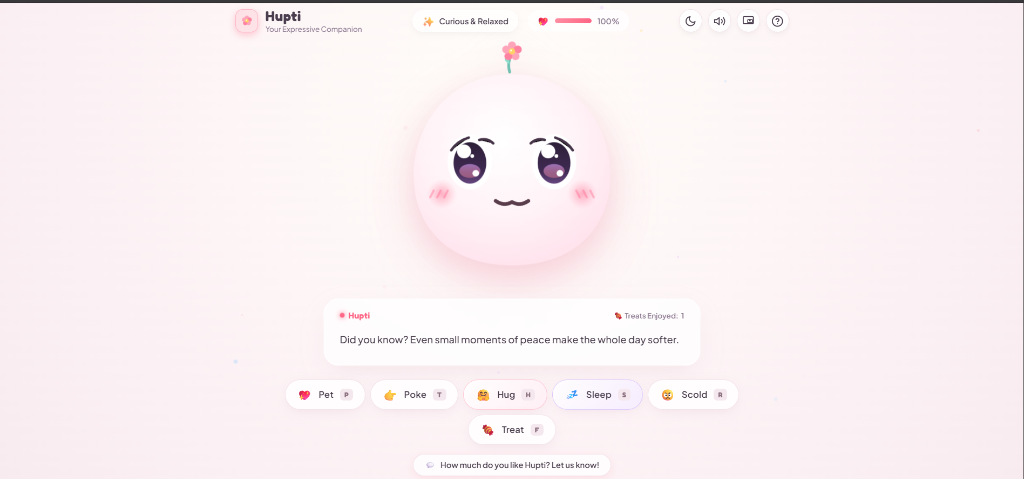
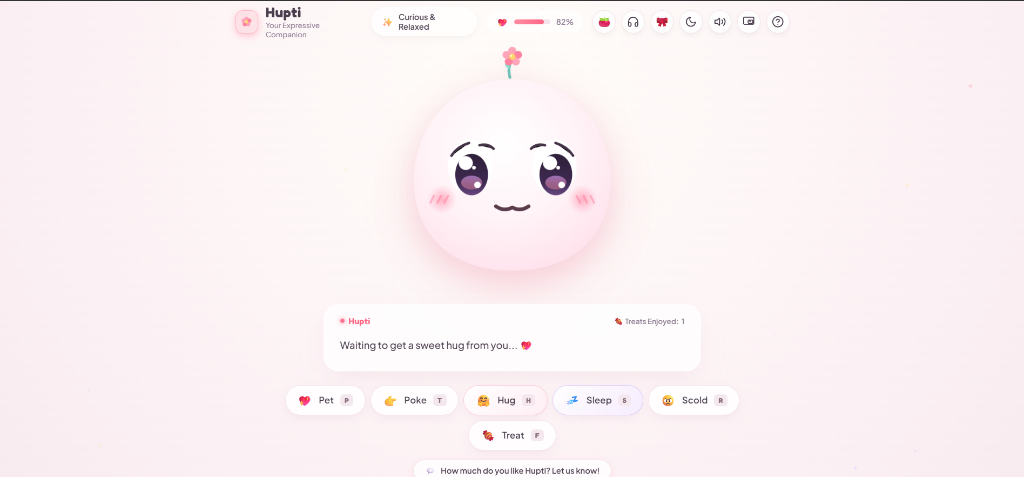
docs: update preview screenshot with study features and refresh README documentation

diff --git a/README.md b/README.md
@@ -1,6 +1,13 @@
 # 🌸 Hupti — The Expressive Virtual Pet Companion
 
-> A minimalist, responsive, and heartwarming virtual companion that lives directly in your browser or floats over your desktop work. Crafted with fluid vector animations, procedural acoustic pet vocalizations, and zero external framework bloat.
+[![Live Demo](https://img.shields.io/badge/Live%20Demo-hupti.vercel.app-ff6584?style=for-the-badge&logo=vercel&logoColor=white)](https://hupti.vercel.app/)
+[![GitHub Repo](https://img.shields.io/badge/GitHub-RI--Rimon%2FHupti-181717?style=for-the-badge&logo=github&logoColor=white)](https://github.com/RI-Rimon/Hupti)
+[![Vanilla JS](https://img.shields.io/badge/JavaScript-Vanilla%20ES6+-F7DF1E?style=for-the-badge&logo=javascript&logoColor=black)](https://developer.mozilla.org/en-US/docs/Web/JavaScript)
+[![Web Audio API](https://img.shields.io/badge/Audio-Procedural%20Web%20Audio-7952B3?style=for-the-badge&logo=web-audio-api&logoColor=white)](https://developer.mozilla.org/en-US/docs/Web/API/Web_Audio_API)
+[![Document PiP](https://img.shields.io/badge/Window-Document%20PiP-4285F4?style=for-the-badge&logo=googlechrome&logoColor=white)](https://developer.chrome.com/docs/web-platform/document-picture-in-picture/)
+[![Zero Dependencies](https://img.shields.io/badge/Dependencies-0%20External%20Libs-success?style=for-the-badge)](https://github.com/RI-Rimon/Hupti)
+
+> A minimalist, responsive, and heartwarming virtual companion that lives directly in your browser or floats over your desktop work. Crafted with fluid vector animations, procedural acoustic pet vocalizations, study companion tools, and zero external framework bloat.
 
 <p align="center">
   <img src="assets/hupti-preview.png" alt="Hupti Interface Preview" width="100%" style="border-radius: 12px; box-shadow: 0 10px 30px rgba(0,0,0,0.08);" />
@@ -15,6 +22,7 @@
 - [How Hupti Works (Architecture)](#-how-hupti-works-architecture)
 - [Key Features](#-key-features)
 - [Interactive Controls & Shortcuts](#-interactive-controls--shortcuts)
+- [Technical Stack & Design Decisions](#-technical-stack--design-decisions)
 - [Quick Start & Local Setup](#-quick-start--local-setup)
 - [Future Roadmap & Ideas](#-future-roadmap--ideas)
 - [Credits & Acknowledgments](#-credits--acknowledgments)
@@ -31,15 +39,14 @@ The concept, character identity, visual direction, emotional lifecycle, and over
 
 Hupti represents a personal experiment in combining frontend development, animation, browser audio, and thoughtful interaction design into a small but meaningful experience.
 
-
 ---
 
 ## 🌸 Character Concept & Identity
 
 | Attribute | Specification |
 | :--- | :--- |
-| **Name** | **Hupti** (pronounced *Hup-tea*) |
-| **Persona** | Affectionate, slightly playful, empathetic, and sweet. |
+| **Name** | **Hupti** (pronounced *Hup-tee*) |
+| **Persona** | Affectionate, slightly playful, empathetic, and sweet companion. |
 | **Visual Motif** | A 5-petal pink blossom with a golden pollen core—symbolizing fresh energy, soft resilience, and blooming warmth. |
 | **Aesthetic** | Soft pastel minimalism (gentle strawberry blush, cream whites, lavender night shadows). |
 | **Communication** | **100% Non-Verbal Vocalizations + Written Thoughts.** Dialogue appears in a clean typewriter subtitle card; audio is synthesized procedurally via oscillators. |
@@ -54,7 +61,7 @@ Hupti is engineered from the ground up without heavy external dependencies or ru
  ┌─────────────────────────────────────────────────────────────┐
  │                       USER INPUTS                           │
  │   Pointer Gestures (Forehead Stroke, Cheek Poke, Tap)       │
- │   Keyboard Shortcuts (P, T, H, S, W, R, F, M, O)            │
+ │   Keyboard Shortcuts (P, T, H, S, W, R, F, M, O, B, C)      │
  │   Action Buttons & Tab Visibility (Document PiP Auto-Dock)  │
  └──────────────────────────────┬──────────────────────────────┘
                                 │
@@ -70,6 +77,8 @@ Hupti is engineered from the ground up without heavy external dependencies or ru
  │                       HuptiState.js                         │
  │   Central State Machine & Observer Hub                      │
  │   - Mood States: IDLE, HAPPY, HUGGED, POUTED, SAD, SLEEP    │
+ │   - Pomodoro Study Engine (25m Focus / 5m Break Cycles)     │
+ │   - Wardrobe Customization & Tint State Management          │
  │   - Autonomous Idle Chatter Timer (12–20s interval)         │
  │   - Affection Level (0–100%) & Treat Counter                │
  │   - LocalStorage State Persistence Engine                   │
@@ -79,10 +88,10 @@ Hupti is engineered from the ground up without heavy external dependencies or ru
  ┌───────────────┐       ┌──────────────┐       ┌───────────────┐
  │HuptiRenderer  │       │  SoundFX.js  │       │ PiPManager.js │
  │- SVG morphing │       │- Web Audio   │       │- Document PiP │
- │- Eye tracking │       │  Oscillators │       │- Video Stream │
- │- Squish/bounce│       │- Filter Envs │       │  Fallback     │
- │- Canvas hearts│       │- Zero audio  │       │- Bi-direction │
- │  & treats     │       │  file assets │       │  State Sync   │
+ │- Accessories  │       │  Oscillators │       │- Video Stream │
+ │- Study glasses│       │- Ambient Gen │       │  Fallback     │
+ │- Eye tracking │       │  (Rain, LoFi,│       │- Bi-direction │
+ │- Particle FX  │       │   Chimes)    │       │  State Sync   │
  └───────────────┘       └──────────────┘       └───────────────┘
 ```
 
@@ -90,52 +99,81 @@ Hupti is engineered from the ground up without heavy external dependencies or ru
 
 1. **[`js/huptistate.js`](file:///c:/Users/redwa/OneDrive/Desktop/Test%20for%20antigravity/Vertual%20Pet/js/huptistate.js) — The Core State Machine:**
    - Governs Hupti's emotional model, affection percentages, and treat counts.
-   - Implements an autonomous idle timer: if no interaction occurs for 12–20 seconds while awake, Hupti autonomously shares a sweet or motivational thought.
-   - Automatically serializes and reloads state to `window.localStorage` so affection and treat memories persist across browser sessions.
+   - Manages the **Pomodoro Study Companion** cycle (25-minute focus sprints and 5-minute restorative breaks).
+   - Tracks wardrobe accessories (Sakura, Sunflower, Snowdrop, Sprout, Scholar Cap, Ribbon), study eyewear, and body color tints.
+   - Automatically serializes and reloads state to `window.localStorage` so your relationship with Hupti persists across browser sessions.
 
 2. **[`js/huptirenderer.js`](file:///c:/Users/redwa/OneDrive/Desktop/Test%20for%20antigravity/Vertual%20Pet/js/huptirenderer.js) — Dynamic Visual Engine:**
-   - Controls vector SVG elements (morphing eye paths, dynamic sclera clipping, smiling/pouting mouth arcs, cheek blush opacities).
+   - Controls vector SVG rigging (morphing eye paths, dynamic sclera clipping, smiling/pouting mouth arcs, cheek blush opacities).
+   - Renders interchangeable head accessories and wireframe study glasses 👓.
+   - Dynamically updates body gradients and color palettes across light and dark modes.
    - Renders a lightweight HTML5 `<canvas>` particle engine for bursting floating hearts and falling strawberry mochi treats.
    - Implements spring-interpolated pupil tracking so Hupti's eyes smoothly follow your cursor.
 
 3. **[`js/soundfx.js`](file:///c:/Users/redwa/OneDrive/Desktop/Test%20for%20antigravity/Vertual%20Pet/js/soundfx.js) — Procedural Web Audio Engine:**
-   - Generates 100% of sound effects dynamically using math and the browser's native `AudioContext`.
-   - Utilizes `OscillatorNode` (sine, triangle), `BiquadFilterNode`, and exponential gain envelopes to synthesize soft vibrating purrs, rising affectionate chord swells, cute boops, and snores without loading any external `.mp3` or `.wav` files.
+   - Generates 100% of sound effects and ambient soundscapes dynamically using math and the browser's native `AudioContext`.
+   - Utilizes `OscillatorNode` (sine, triangle), `BiquadFilterNode`, and exponential gain envelopes to synthesize soft purrs, chord swells, cute boops, celebratory fanfares, and infinite ambient textures (rain, wind chimes, hearth, lo-fi pads) without loading external audio assets.
 
 4. **[`js/pipmanager.js`](file:///c:/Users/redwa/OneDrive/Desktop/Test%20for%20antigravity/Vertual%20Pet/js/pipmanager.js) — Always-on-Top Floating Companion:**
-   - Implements the cutting-edge **Document Picture-in-Picture API** (`window.documentPictureInPicture`), enabling Hupti to break free from the browser tab into an always-on-top frameless floating mini desktop widget (~310×345px).
+   - Implements the cutting-edge **Document Picture-in-Picture API** (`window.documentPictureInPicture`), enabling Hupti to float over desktop applications (VS Code, Word, Zoom, Discord, etc.).
    - Includes an offscreen HTML5 Canvas stream fallback (`canvas.captureStream()` → `video.requestPictureInPicture()`) for browsers that only support standard video PiP.
-   - Bi-directionally synchronizes theme, mood, dialog, and audio between the main tab and floating window.
+   - Bi-directionally synchronizes theme, mood, accessories, study glasses, Pomodoro countdown, and procedural audio.
 
 5. **[`js/inputhandler.js`](file:///c:/Users/redwa/OneDrive/Desktop/Test%20for%20antigravity/Vertual%20Pet/js/inputhandler.js) & [`js/app.js`](file:///c:/Users/redwa/OneDrive/Desktop/Test%20for%20antigravity/Vertual%20Pet/js/app.js):**
-   - Coordinates keyboard shortcuts, mouse/touch drag strokes on Hupti's forehead, cheek pokes, theme switching, typewriter dialogue transitions, and feedback handling.
+   - Coordinates keyboard shortcuts, mouse/touch drag strokes on Hupti's forehead, cheek pokes, theme switching, typewriter dialogue transitions, Pomodoro controls, ambient soundscape playback, wardrobe styling, and feedback handling.
 
 ---
 
 ## 🚀 Key Features
 
 ### 1. ⤢ Picture-in-Picture Floating Mini Companion
-- **Always-on-Top Floating Mode:** Click the PiP icon in the header or press shortcut **`O`** to pop Hupti into a dedicated floating window that stays on top of all desktop apps (VS Code, Word, Zoom, Discord, etc.).
+- **Always-on-Top Floating Mode:** Click the PiP icon in the header or press shortcut **`O`** to pop Hupti into a dedicated floating window that stays on top of all desktop apps.
 - **Fully Interactive in Mini View:**
   - Animated SVG face with real-time pupil tracking.
-  - Live written subtitle thoughts card.
+  - Live written subtitle thoughts card and Pomodoro countdown timer.
   - Interactive quick buttons (💖 Pet, 🤗 Hug, 💤 Sleep/Wake, 🍬 Treat).
   - Tapping her face directly inside the mini window triggers affectionate heart bursts.
-- **Auto-Switch & Docking:** Hupti can automatically transfer into floating mode when you switch browser tabs and seamlessly dock back when you return.
+- **Auto-Switch & Docking:** Hupti automatically transfers into floating mode when you switch browser tabs and seamlessly docks back when you return.
 
-### 2. 🤗 Virtual Embrace (Warm Hugs)
+### 2. 🍅 Pomodoro Study Companion
+- **Integrated Focus & Break Engine:**
+  - Standard 25-minute study focus interval followed by a 5-minute rest and hydration break.
+  - Interactive countdown pill in the header (`🍅 25:00 Focus`) and dedicated control modal.
+  - Large digital countdown clock, Start/Pause, Reset, and Skip session controls.
+  - **⭐ Daily Counter:** Keeps track of how many focus sprints you have completed today.
+  - **⚡ 1-Minute Quick Test Mode:** Quickly preview focus-to-break transitions in 60s and 15s.
+- **Hupti Studies With You:**
+  - During focus mode, Hupti puts on tiny **wireframe study glasses 👓**, tilts her head attentively, and gives encouraging study thoughts (*"Focus time started! Let's conquer this together. I'm right here studying beside you!"*).
+  - When the focus sprint finishes, she plays a **celebratory fanfare chime**, takes off her glasses, floats happily with hearts, and reminds you to rest: *"Focus session complete! 🎉 Put your pen down, take a sip of water, and stretch your arms!"*
+
+### 3. 🎧 Procedural Ambient Lo-Fi & Rain Soundscapes
+- **Zero Audio Files:** 100% synthesized through the browser's native **Web Audio API**:
+  - 🌧 **Gentle Rain:** Cozy rolling rain hiss with delicate high-pitch droplets tapping on a window pane.
+  - 🎐 **Zen Wind Chimes:** Ambient summer breeze carrying resonant pentatonic bells with realistic decays.
+  - 🔥 **Cozy Hearth:** Deep warm low-frequency fireplace rumble with random micro-crackles and ember pops.
+  - 🎵 **Lo-Fi Warm Pad:** Gentle undulating warm chords (Cmaj7, Am7, Fmaj7, G7sus) with tape flutter.
+- Volume slider (0% to 100%) and instant Play/Stop toggle (Shortcut: **`B`**). Plays seamlessly in the background while studying or floating in PiP mode.
+
+### 4. 🎀 Wardrobe, Custom Accessories & Seasonal Themes
+- **Interactive Customizer Modal (Shortcut: `C`):**
+  - **🌸 Head Accessories:** Sakura blossom, Golden Sunflower 🌻, Winter Snowdrop ❄, Fresh Sprout 🌱, Scholar Graduation Cap 🎓, and Pastel Ribbon 🎀.
+  - **👓 Eyewear:** Wireframe study glasses can be toggled manually or automatically worn during Pomodoro focus.
+  - **🎨 Body Color Tints:** Strawberry Cream (default), Lavender Twilight, Mint Sage, Honey Peach, and Sky Blue.
+  - **Persistent:** Selected accessories and themes are automatically saved to `localStorage`.
+
+### 5. 🤗 Virtual Embrace (Warm Hugs)
 - Press **`H`** or click **🤗 Hug** to give Hupti a warm virtual embrace.
 - Her eyes gently close, cheeks glow with deep rosy radiance, floating hearts ascend, and a soft harmonic chord swell plays as she snuggles closer.
 
-### 3. 💭 Autonomous Heartwarming Thoughts
-- Hupti doesn't just sit frozen: when you are busy working, every 12–20 seconds she shares gentle, uplifting thoughts:
+### 6. 💭 Autonomous Heartwarming Thoughts
+- When left alone for 12–20 seconds while awake, Hupti shares comforting, empathetic thoughts:
   - *"You are my sweet human, you know that?"*
   - *"Don't forget to take care of yourself today! Have a sip of water."*
   - *"Waiting to get a sweet hug from you... 💖"*
   - *"You're doing amazing, even if things feel tough. I'm right here!"*
   - *"Just sitting here appreciating how kind you are to me."*
 
-### 4. 🎶 Organic Procedural Pet Acoustics
+### 7. 🎶 Organic Procedural Pet Acoustics
 - Zero robotic text-to-speech voices. Hupti's vocalizations are entirely procedural pet sounds:
   - **💖 Pet:** Rhythmic soft purr vibrating in tandem with gentle melodic chirps.
   - **🤗 Hug:** Warm ascending musical chord swell.
@@ -144,14 +182,13 @@ Hupti is engineered from the ground up without heavy external dependencies or ru
   - **💤 Sleep / ☀ Wake:** Descending sleepy sigh lullaby / bright morning chime.
   - **✨ Idle Chatter:** Subtle bell ping alerting you that a new thought has appeared in text.
 
-### 5. 💾 Browser State Persistence
-- Progress is never lost: your **"Treats Enjoyed"** counter and **Affection / Happiness percentage** are safely stored in browser `localStorage`.
-- Reopening or refreshing the page instantly restores your relationship with Hupti.
+### 8. 💾 Browser State Persistence
+- Progress is never lost: your **"Treats Enjoyed"** counter, **Affection / Happiness percentage**, wardrobe choices, and completed study sprints are safely stored in browser `localStorage`.
 
-### 6. 🌗 Cozy Pastel Day & Night Themes
+### 9. 🌗 Cozy Pastel Day & Night Themes
 - One-click toggle between an airy warm cream/blush day palette and a deep lavender dark mode designed for late-night study sessions.
 
-### 7. 💌 Privacy-Preserving Feedback System
+### 10. 💌 Privacy-Preserving Feedback System
 - A discreet bottom-docked feedback modal lets visitors rate Hupti and share thoughts without exposing sensitive developer credentials in the DOM.
 
 ---
@@ -168,6 +205,8 @@ Hupti is engineered from the ground up without heavy external dependencies or ru
 | **☀ Wake Up** | `W` | Gently tap anywhere on Hupti while sleeping | Cheerful morning yawn and chirp |
 | **😠 Scold** | `R` | Click **😠 Scold** button | Gentle sad sigh, temporarily deflates cheeks |
 | **⤢ Floating PiP** | `O` | Click PiP icon in header | Pops Hupti into an always-on-top desktop mini window |
+| **🎧 Soundscapes** | `B` | Click headphones icon in header | Opens procedural ambient soundscapes player |
+| **🎀 Wardrobe** | `C` | Click ribbon icon in header | Opens wardrobe accessories and color tints |
 | **🔇 Toggle Audio** | `M` | Click speaker icon in header | Mutes/unmutes procedural audio effects |
 | **🌙 Day/Night** | — | Click sun/moon icon in header | Smoothly toggles between light and night themes |
 
@@ -177,37 +216,48 @@ Hupti is engineered from the ground up without heavy external dependencies or ru
 
 - **HTML5 & SVG:** Semantic markup and mathematical SVG coordinate vectors allowing infinite resolution scaling without raster pixelation.
 - **Pure CSS3:** Hardware-accelerated CSS keyframe transforms (`translate3d`, `scale`) for 60fps breathing and floating idle cycles.
-- **Vanilla JavaScript (ES6+):** Zero compilation steps, zero external dependencies, near-instant load time (< 80 KB total asset weight).
+- **Vanilla JavaScript (ES6+):** Zero compilation steps, zero external dependencies, near-instant load time (< 90 KB total asset weight).
 - **Web Audio API:** Procedural synthesis eliminates 100% of network latency, audio loading errors, and copyright issues.
 - **Document Picture-in-Picture API:** Provides full DOM rendering and interactive event loops inside a floating OS-level window.
 
 ---
 
-## 💻 Quick Start
+## 💻 Quick Start & Local Setup
 
 ### 🌐 Instant Web Access
 No installation required! Visit the live deployment:
 👉 **[https://hupti.vercel.app/](https://hupti.vercel.app/)**
 
+### 💻 Running Locally
+
+1. **Clone the repository:**
+   ```bash
+   git clone https://github.com/RI-Rimon/Hupti.git
+   cd Hupti
+   ```
+
+2. **Launch with Node.js built-in server:**
+   ```bash
+   node server.js
+   ```
+   Open your browser to [**http://localhost:8080**](http://localhost:8080).
+
+3. *Alternatively*, open [`index.html`](file:///c:/Users/redwa/OneDrive/Desktop/Test%20for%20antigravity/Vertual%20Pet/index.html) directly in any modern browser (Chrome 116+ recommended for full Document PiP support).
+
+---
 
 ## 🔮 Future Roadmap & Ideas
 
-Hupti is an evolving project. Below are planned features and conceptual directions under exploration:
+Hupti is an evolving project. Below are future conceptual directions under exploration:
 
-- [ ] **🍅 Pomodoro Study Companion:**
-  - Integrated 25-minute study focus timer and 5-minute break cycles.
-  - Hupti puts on tiny study glasses or a graduation cap during focus intervals and gently prompts you to hydrate, stretch, or rest your eyes during breaks.
-- [ ] **🎀 Custom Accessories & Seasonal Themes:**
-  - Unlockable blossoms (cherry blossom, sunflower, winter snowdrop).
-  - Customizable body tints (match your OS or desk setup theme).
-- [ ] **🎧 Procedural Ambient Lo-Fi / Rain Soundscapes:**
-  - An optional background sound generator (soft rain, gentle wind chimes, crackling fireplace) synthesized via Web Audio to assist study focus.
 - [ ] **📱 Progressive Web App (PWA) Offline Support:**
   - Web App Manifest and Service Worker caching so Hupti can be installed directly onto Windows/macOS/iOS/Android and run 100% offline.
 - [ ] **🎮 Cozy Micro-Interactions:**
   - A mini bouncing ball of yarn or floating bubble that Hupti's pupils track and interact with when clicked.
 - [ ] **📊 Empathy Journal:**
   - A gentle, private weekly log visualizing how many hugs, treats, and study hours you and Hupti shared together.
+- [ ] **🌿 Soundscape Sleep Timer:**
+  - A customizable timer to automatically fade out ambient soundscapes as you drift off to sleep.
 
 ---
 
